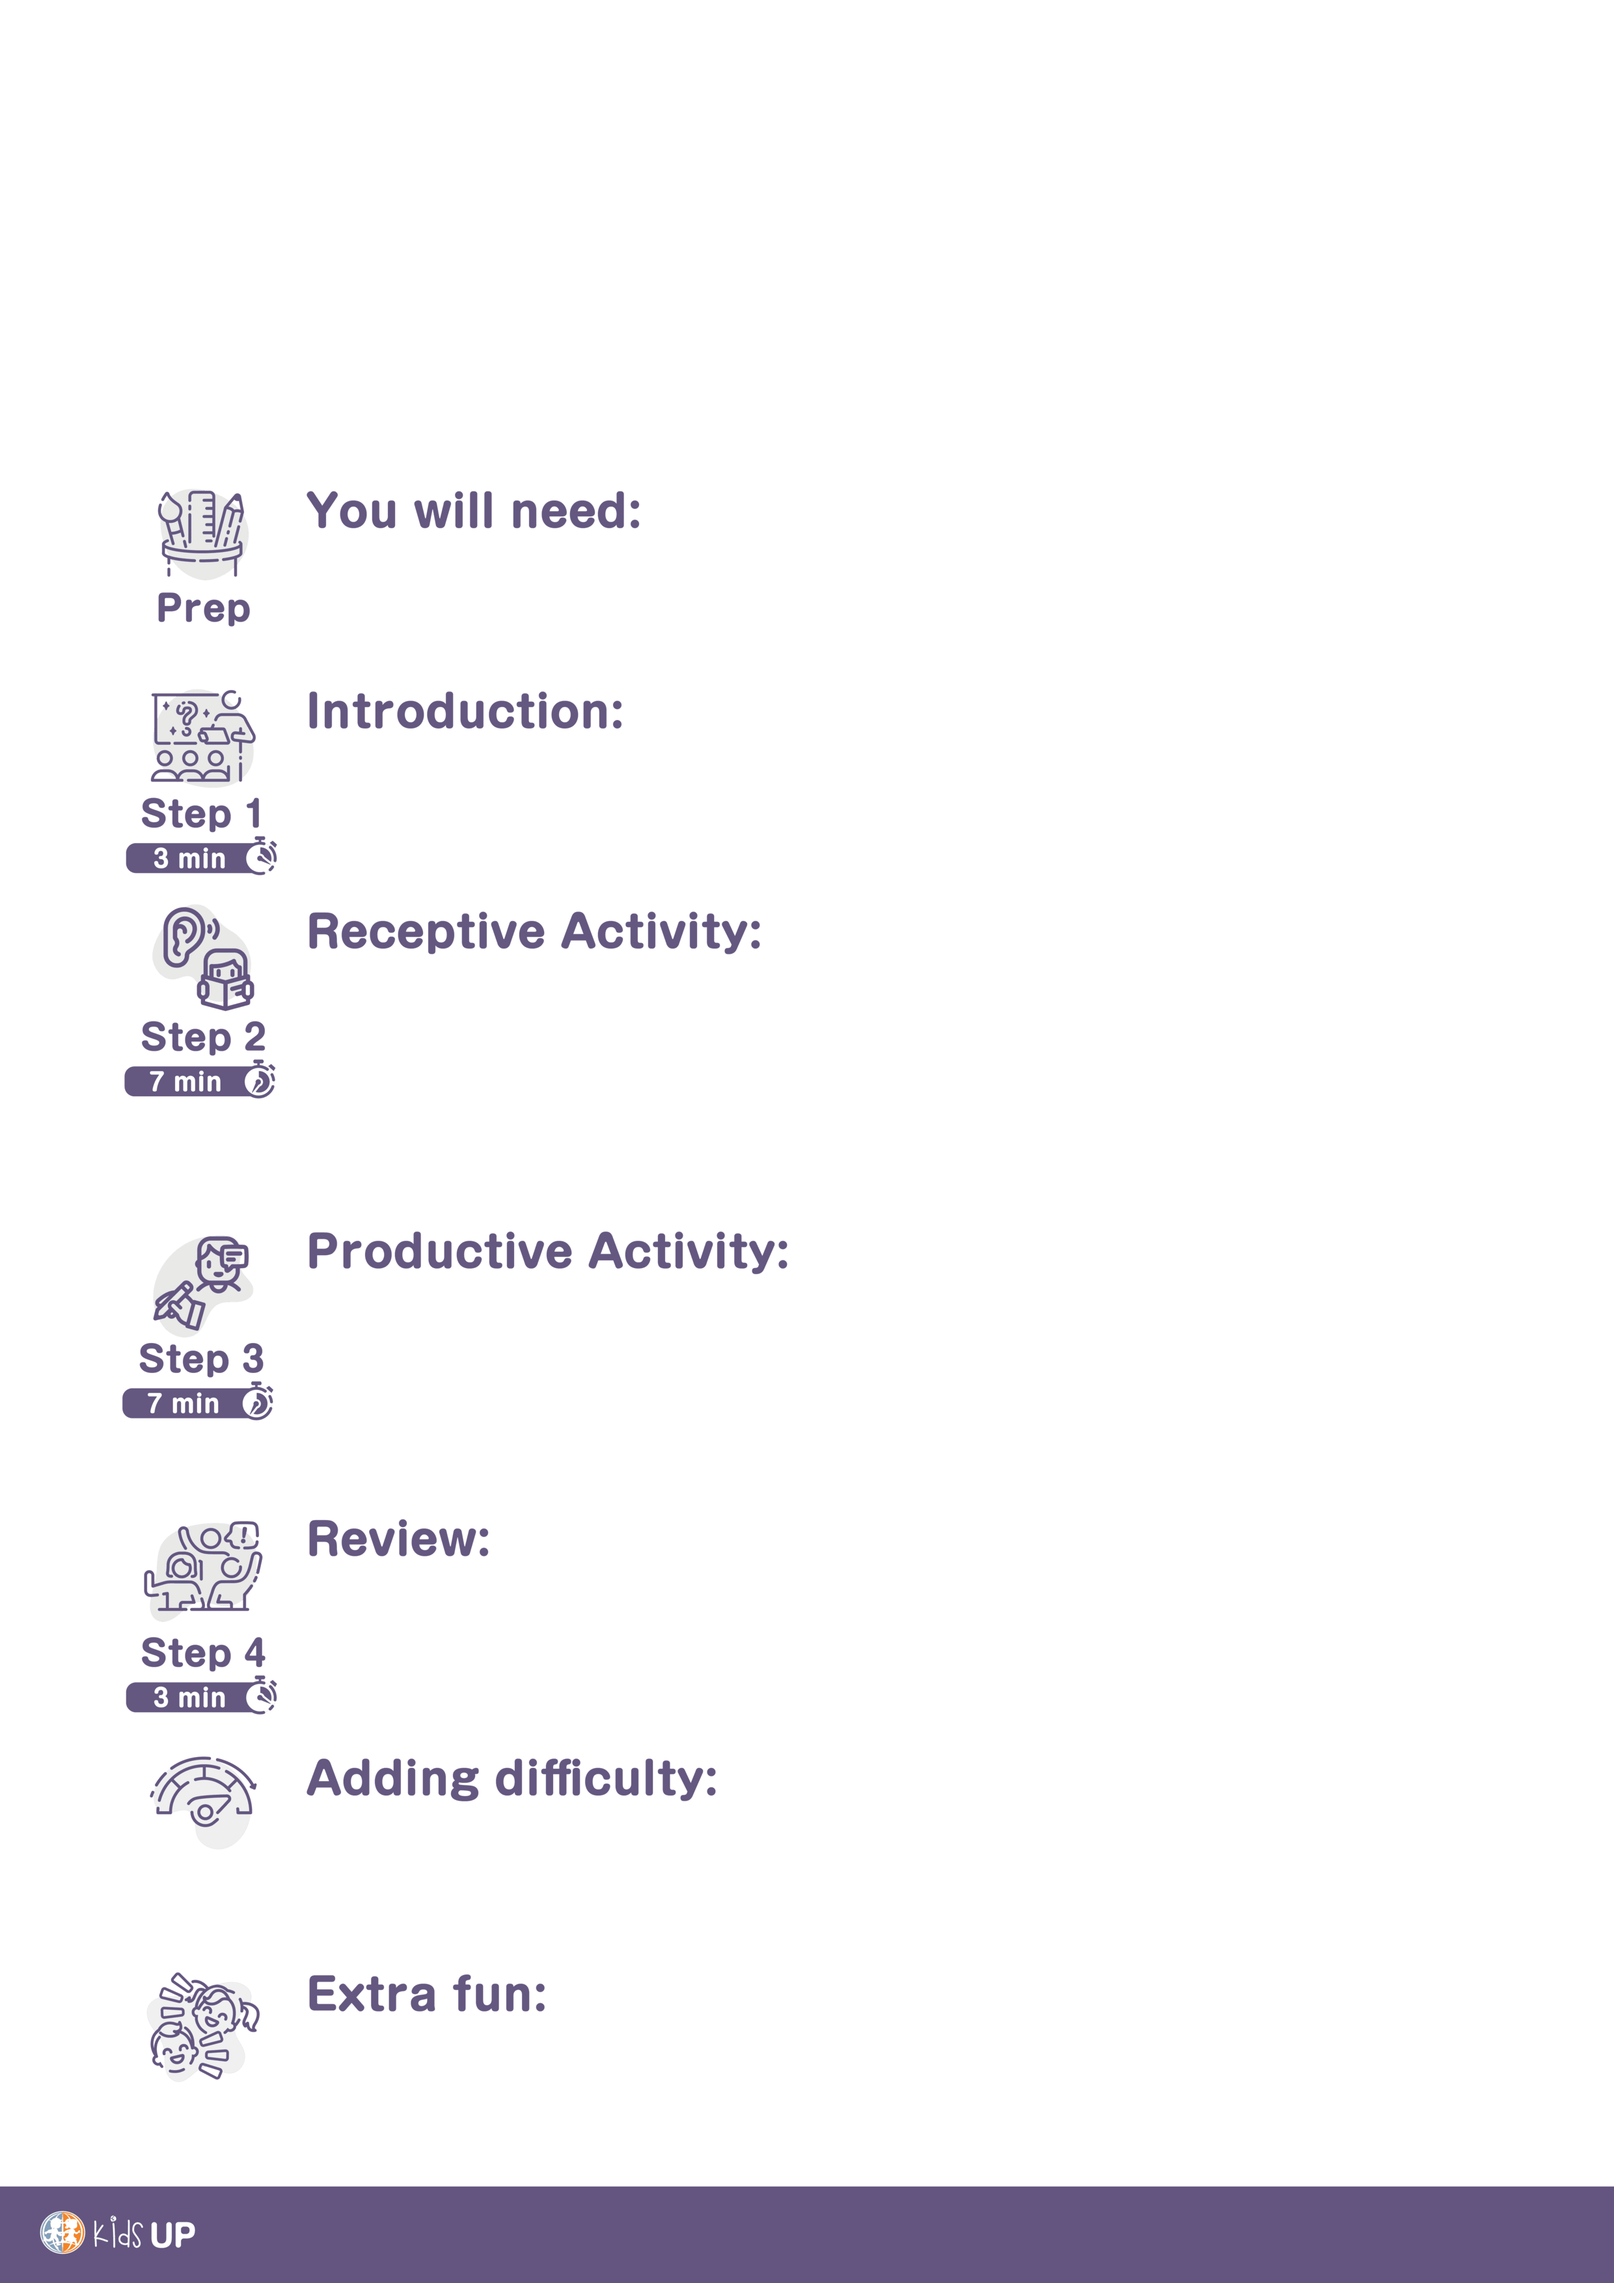
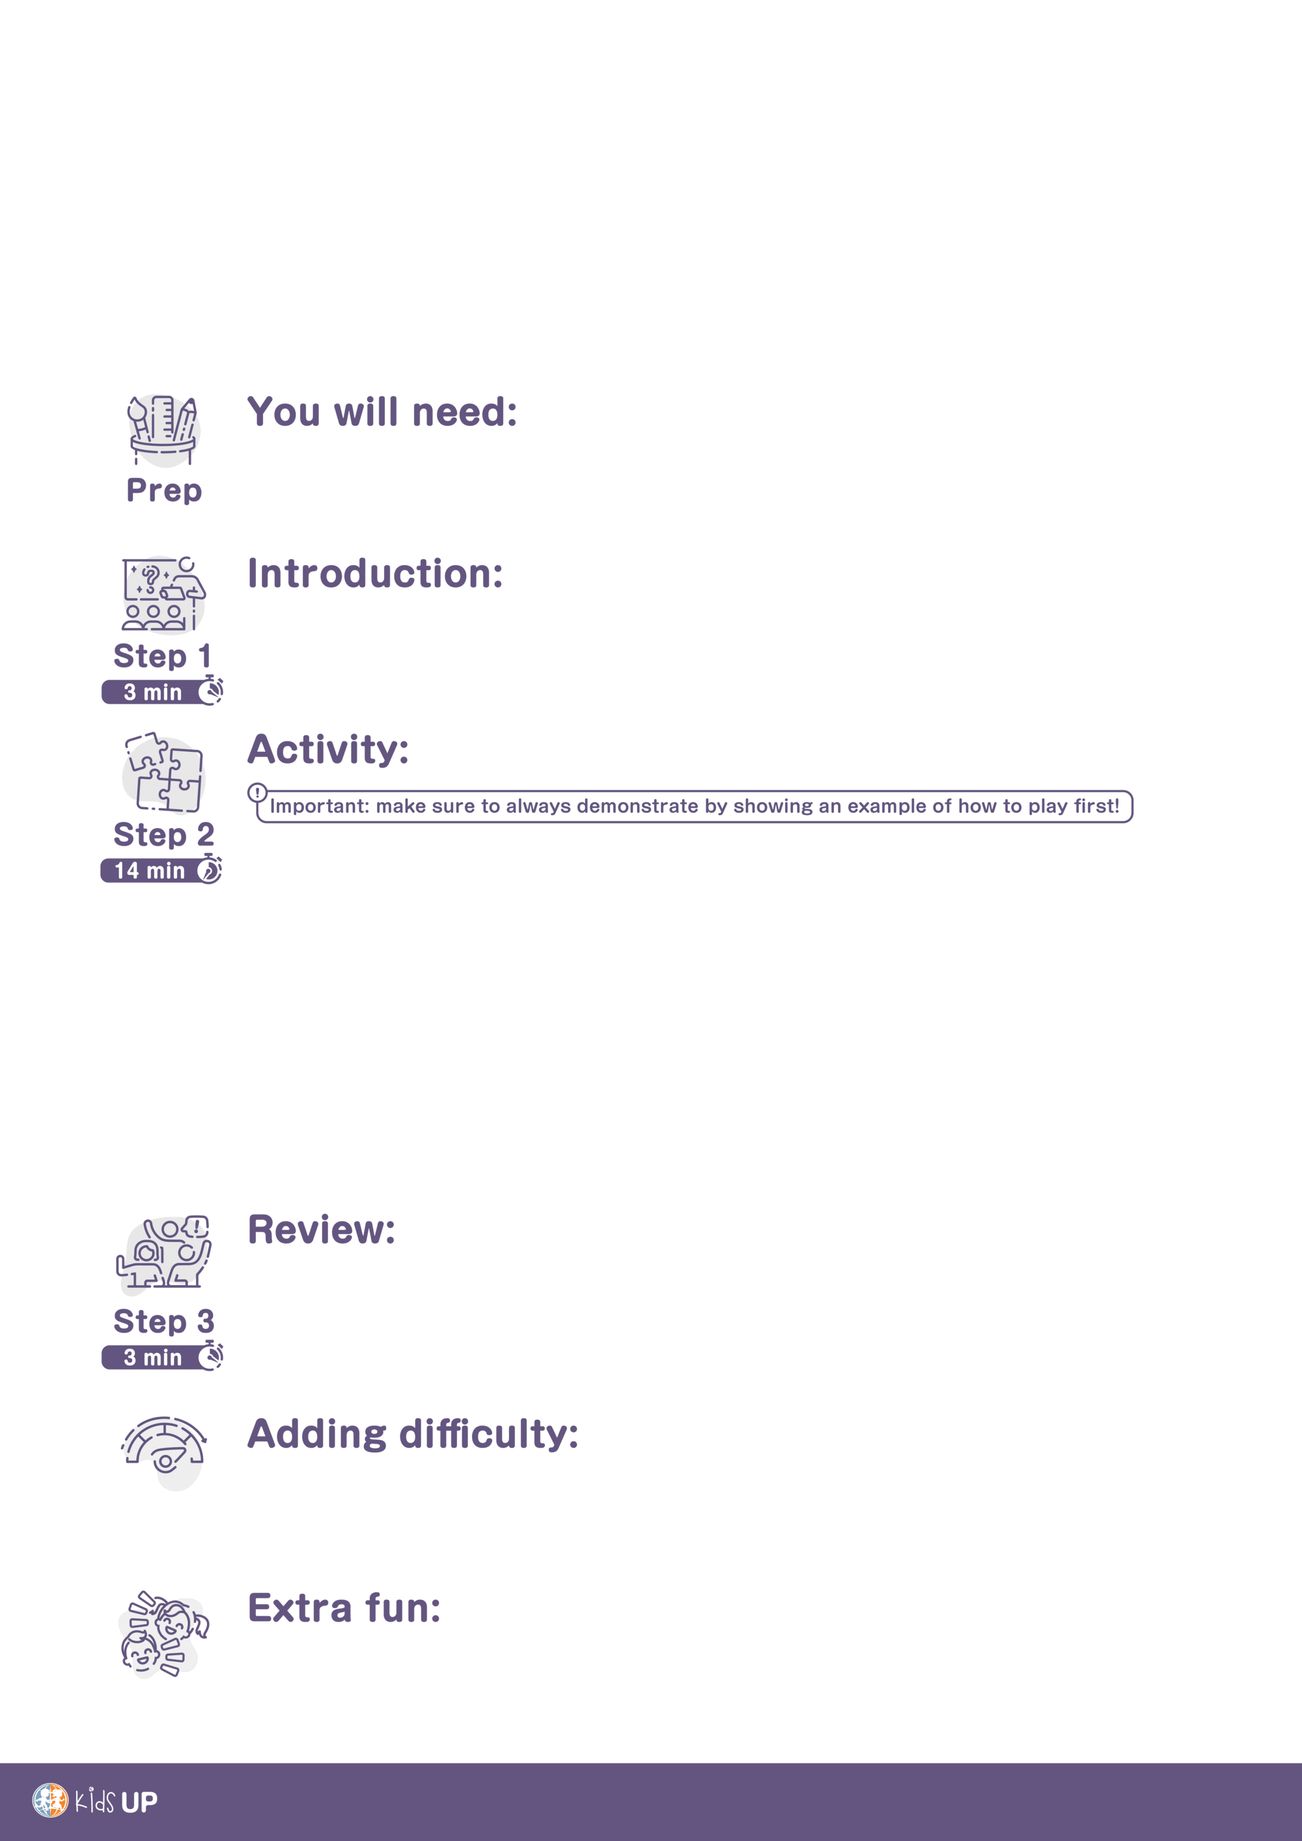
Revert galaxy phonics lessons (keep DB additions)

diff --git a/app/javascript/controllers/index.js b/app/javascript/controllers/index.js
@@ -29,9 +29,6 @@ application.register("dialog", DialogController);
 import NavController from "./nav_controller";
 application.register("nav", NavController);
 
-import PhonicsLevelController from "./phonics_level_controller";
-application.register("phonics-level", PhonicsLevelController);
-
 import PrintController from "./print_controller";
 application.register("print", PrintController);
 

diff --git a/app/models/concerns/pdfs/phonics_class_pdf.rb b/app/models/concerns/pdfs/phonics_class_pdf.rb
@@ -7,15 +7,6 @@ module PhonicsClassPdf
   PHONICS_BODY_INDENT = 42.mm
   PHONICS_MATERIALS_Y = 224.mm
   PHONICS_MATERIALS_H = 18.mm
-  GALAXY_RECEPTIVE_Y = 171.mm
-  GALAXY_RECEPTIVE_H = 14.mm
-  GALAXY_PRODUCTIVE_Y = 129.mm
-  GALAXY_PRODUCTIVE_H = 17.mm
-  GALAXY_REVIEW_Y = 91.mm
-  GALAXY_EXTRA_FUN_Y = 33.mm
-  PHONICS_REVIEW_Y = 93.mm
-  PHONICS_ADD_DIFFICULTY_Y = 60.mm
-  PHONICS_EXTRA_FUN_Y = 31.mm
   included do
     private
 
@@ -23,7 +14,7 @@ module PhonicsClassPdf
       Prawn::Document.new(margin: 0, page_size: 'A4',
                           page_layout: :portrait) do |pdf|
         apply_defaults(pdf)
-        add_background(pdf, background_name)
+        add_background(pdf, 'phonics')
         draw_header(pdf)
         add_header_image(pdf)
         draw_body(pdf)
@@ -49,26 +40,14 @@ module PhonicsClassPdf
       draw_materials(pdf, factory:)
       factory.draw(text: array_to_list(sa(intro), :dot),
                    y_pos: 199.mm, height: 18.mm, indent: PHONICS_BODY_INDENT)
-      if galaxy?
-        factory.draw(text: array_to_list(sa(receptive_activity), :number),
-                     y_pos: GALAXY_RECEPTIVE_Y,
-                     height: GALAXY_RECEPTIVE_H,
-                     indent: PHONICS_BODY_INDENT)
-        factory.draw(text: array_to_list(sa(productive_activity), :number),
-                     y_pos: GALAXY_PRODUCTIVE_Y,
-                     height: GALAXY_PRODUCTIVE_H,
-                     indent: PHONICS_BODY_INDENT)
-      else
-        factory.draw(text: array_to_list(sa(instructions), :number),
-                     y_pos: 160.mm, height: 30.mm, indent: PHONICS_BODY_INDENT)
-      end
+      factory.draw(text: array_to_list(sa(instructions), :number),
+                   y_pos: 160.mm, height: 30.mm, indent: PHONICS_BODY_INDENT)
       factory.draw(text: array_to_list(sa(review), :dot),
-                   y_pos: review_y_pos, height: 18.mm, indent: PHONICS_BODY_INDENT)
+                   y_pos: 93.mm, height: 18.mm, indent: PHONICS_BODY_INDENT)
       factory.draw(text: array_to_list(sa(add_difficulty), :dot),
-                   y_pos: PHONICS_ADD_DIFFICULTY_Y,
-                   height: 18.mm, indent: PHONICS_BODY_INDENT)
+                   y_pos: 60.mm, height: 18.mm, indent: PHONICS_BODY_INDENT)
       factory.draw(text: array_to_list(sa(extra_fun), :dot),
-                   y_pos: extra_fun_y_pos, height: 18.mm, indent: PHONICS_BODY_INDENT)
+                   y_pos: 31.mm, height: 18.mm, indent: PHONICS_BODY_INDENT)
     end
 
     def draw_materials(pdf, factory:)
@@ -101,18 +80,6 @@ module PhonicsClassPdf
         .lines
         .map.with_index(start_at) { |t, i| t.sub(/^\d+/, i.to_s) }
         .join
-    end
-
-    def background_name
-      galaxy? ? 'phonics-galaxy' : 'phonics'
-    end
-
-    def review_y_pos
-      galaxy? ? GALAXY_REVIEW_Y : PHONICS_REVIEW_Y
-    end
-
-    def extra_fun_y_pos
-      galaxy? ? GALAXY_EXTRA_FUN_Y : PHONICS_EXTRA_FUN_Y
     end
   end
 end

diff --git a/app/models/lessons/phonics_class.rb b/app/models/lessons/phonics_class.rb
@@ -14,8 +14,6 @@ class PhonicsClass < Lesson
     links
     materials
     pdf_image
-    productive_activity
-    receptive_activity
     review
   ].freeze
 
@@ -23,43 +21,17 @@ class PhonicsClass < Lesson
     materials
     intro
     instructions
-    receptive_activity
-    productive_activity
     review
     add_difficulty
     extra_fun
 
   ].freeze
 
-  validates :instructions, presence: true, unless: :galaxy?
-  validates :receptive_activity, :productive_activity, presence: true, if: :galaxy?
+  validates :instructions, presence: true
 
   has_many :phonics_resources, dependent: :destroy
   accepts_nested_attributes_for :phonics_resources,
                                 reject_if: :all_blank,
                                 allow_destroy: true
   has_many :category_resources, through: :phonics_resources
-
-  def listable_attributes
-    if galaxy?
-      %i[
-        materials
-        intro
-        receptive_activity
-        productive_activity
-        review
-        add_difficulty
-        extra_fun
-      ]
-    else
-      %i[
-        materials
-        intro
-        instructions
-        review
-        add_difficulty
-        extra_fun
-      ]
-    end
-  end
 end

diff --git a/app/models/lessons/lesson.rb b/app/models/lessons/lesson.rb
@@ -61,10 +61,6 @@ class Lesson < ApplicationRecord
     "Week #{number}"
   end
 
-  def listable_attributes
-    self.class::LISTABLE_ATTRIBUTES
-  end
-
   private
 
   def check_not_used
